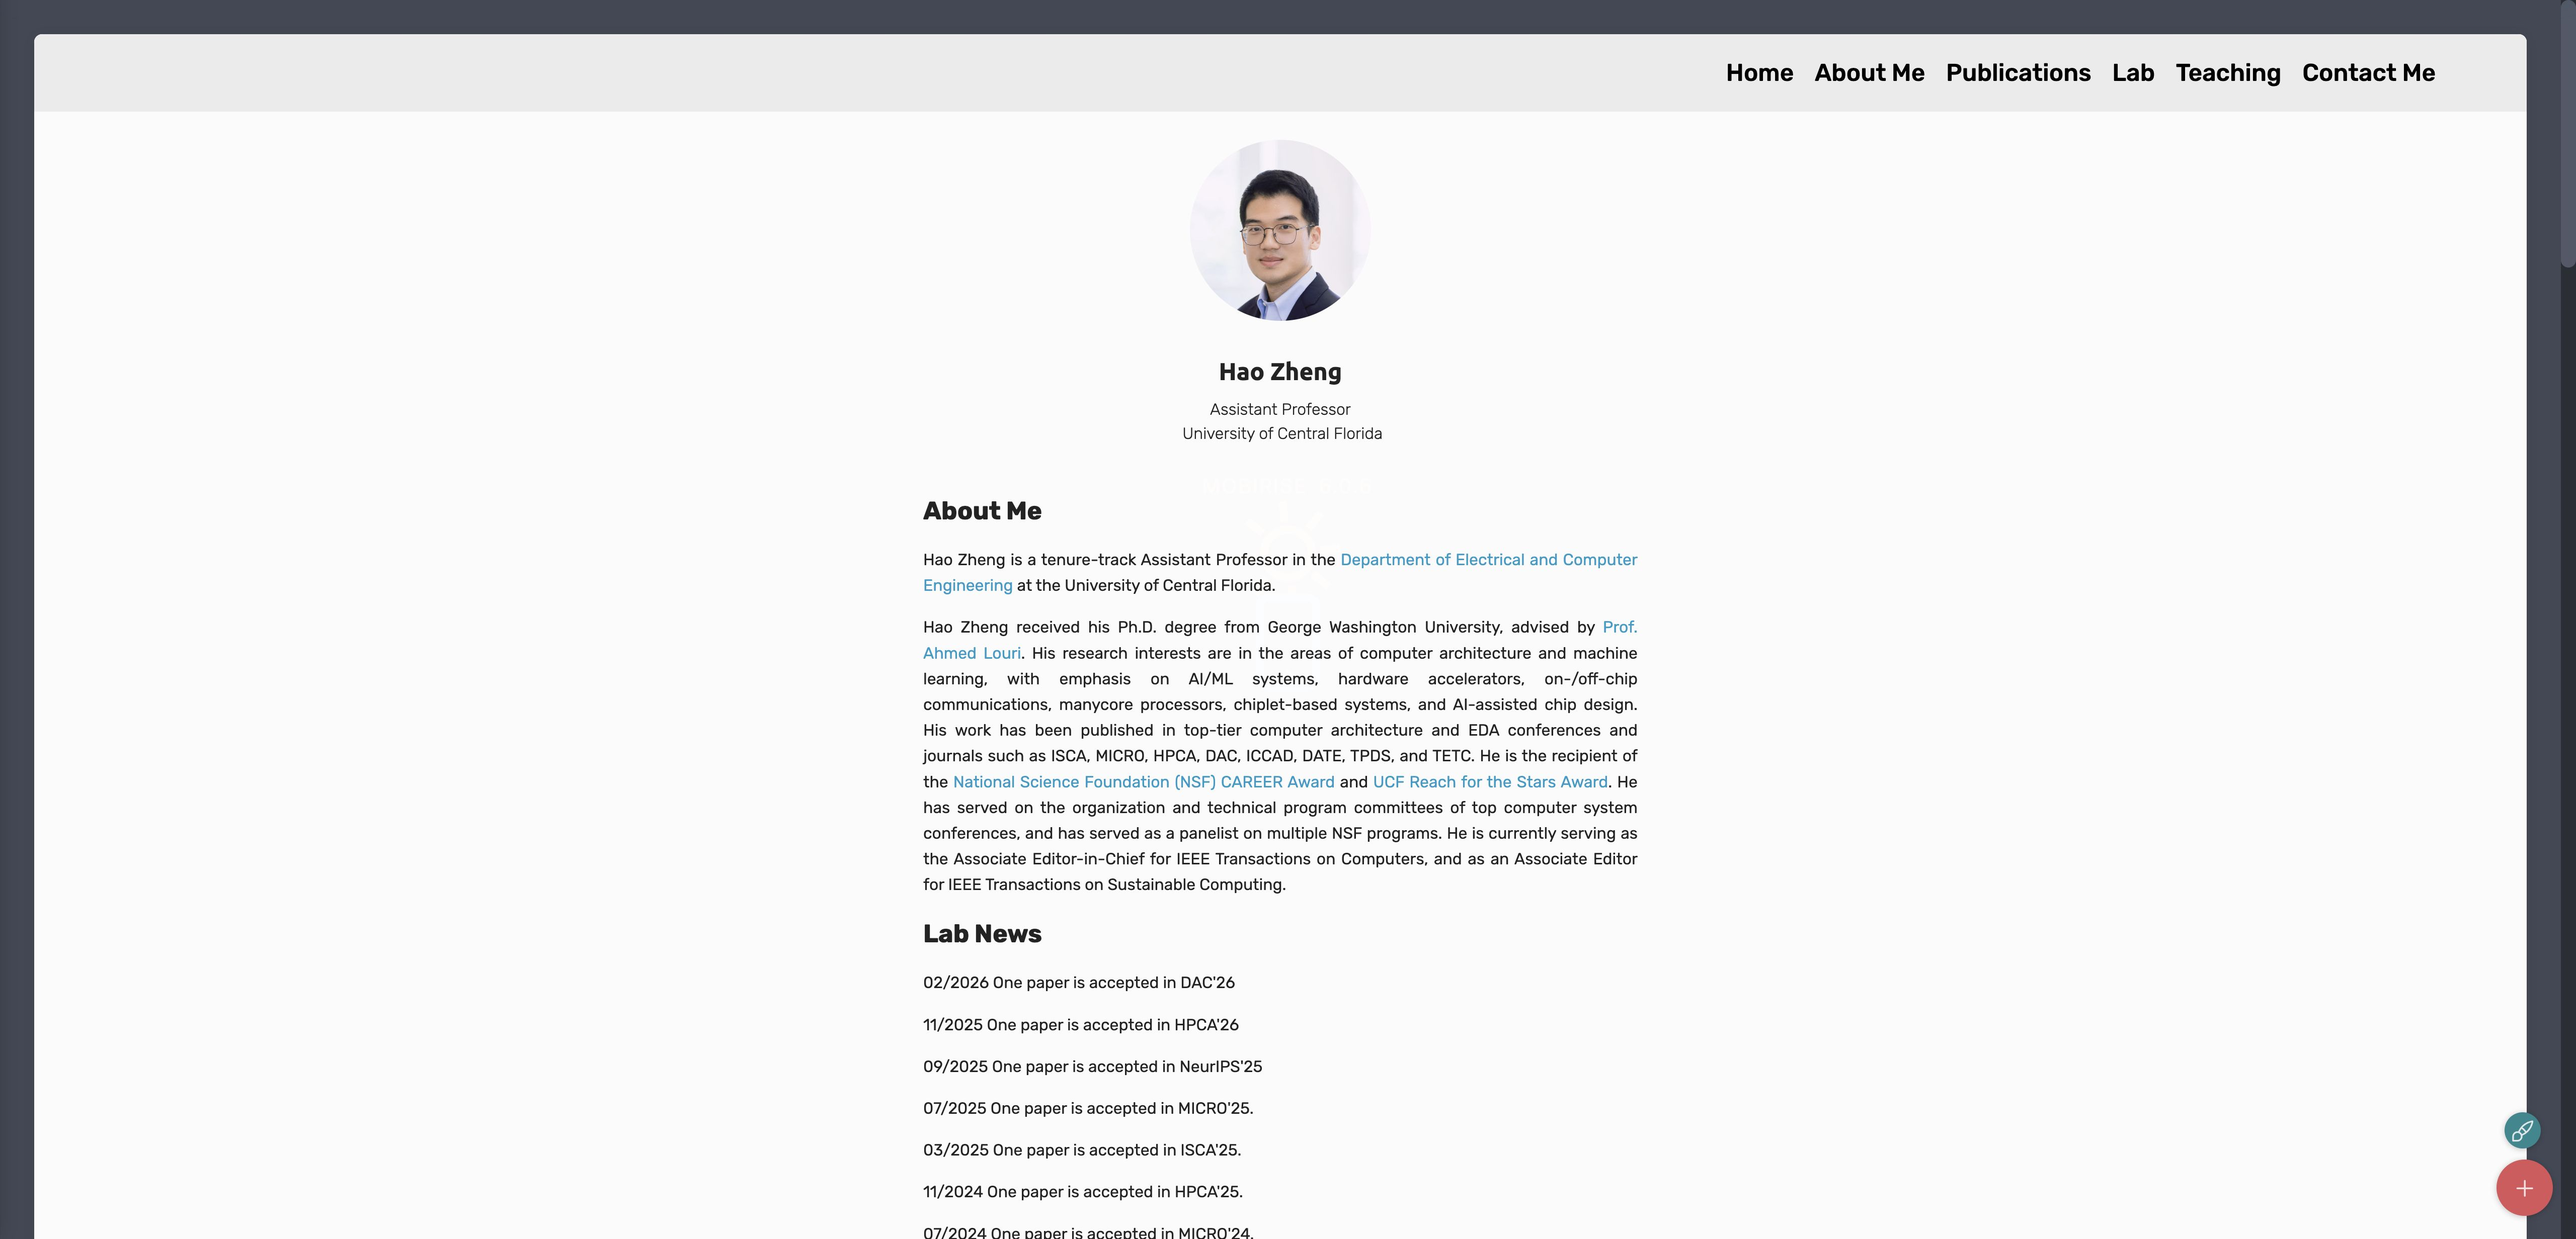
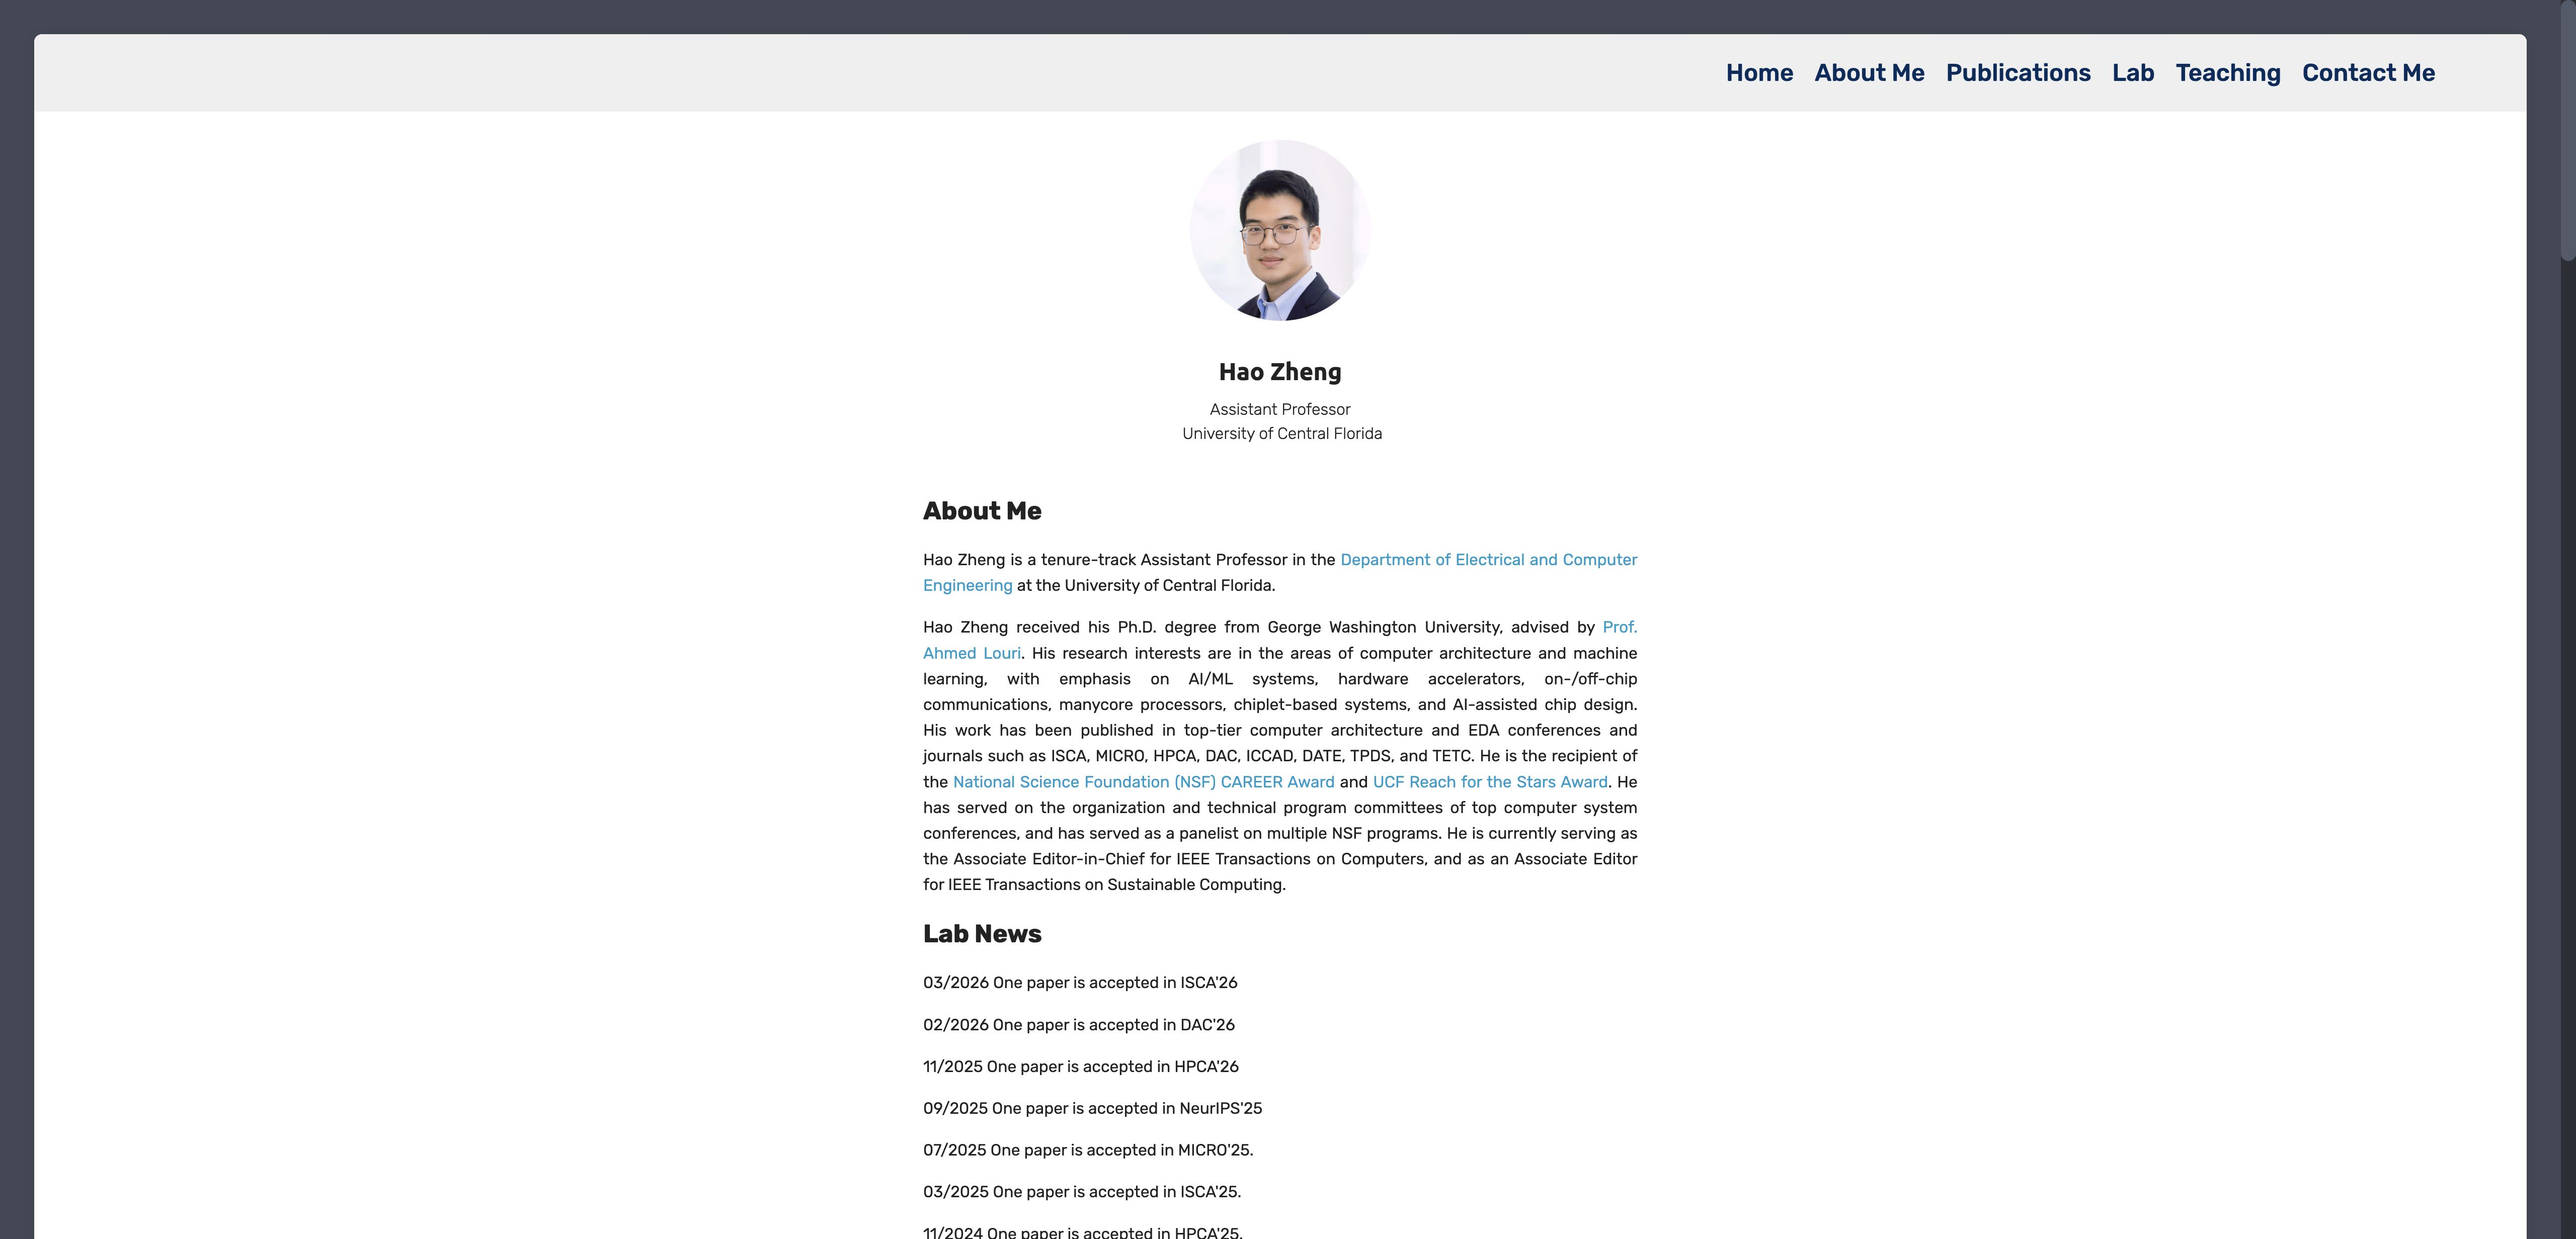
v5.0.8

diff --git a/index.html b/index.html
@@ -22,7 +22,7 @@
   <noscript><link rel="stylesheet" href="https://fonts.googleapis.com/css?family=Ubuntu:300,300i,400,400i,500,500i,700,700i&display=swap"></noscript>
   <link rel="preload" href="https://fonts.googleapis.com/css?family=Rubik:300,400,500,600,700,800,900,300i,400i,500i,600i,700i,800i,900i&display=swap" as="style" onload="this.onload=null;this.rel='stylesheet'">
   <noscript><link rel="stylesheet" href="https://fonts.googleapis.com/css?family=Rubik:300,400,500,600,700,800,900,300i,400i,500i,600i,700i,800i,900i&display=swap"></noscript>
-  <link rel="preload" as="style" href="assets/mobirise/css/mbr-additional.css?v=S5wiF6"><link rel="stylesheet" href="assets/mobirise/css/mbr-additional.css?v=S5wiF6" type="text/css">
+  <link rel="preload" as="style" href="assets/mobirise/css/mbr-additional.css?v=Qo17f2"><link rel="stylesheet" href="assets/mobirise/css/mbr-additional.css?v=Qo17f2" type="text/css">
 
   
   
@@ -124,7 +124,7 @@
 
     <div class="container">
         <div class="media-container-row">
-            <div class="mbr-text col-12 mbr-fonts-style display-7 col-md-8"><p><span style="font-size: 25px;"><strong>About Me</strong></span></p><p>Hao Zheng is a tenure-track Assistant Professor in the <a href="https://www.ece.ucf.edu/">Department of Electrical and Computer Engineering</a> at the University of Central Florida.&nbsp;</p><p><span style="font-size: 1rem;">Hao Zheng received his Ph.D. degree from George Washington University, advised by <a href="https://hpcat.seas.gwu.edu/">Prof. Ahmed Louri</a>. His research interests are in the areas of computer architecture and machine learning, with emphasis on AI/ML systems, hardware accelerators, on-/off-chip communications, manycore processors, chiplet-based systems, and AI-assisted chip design. His work has been published in top-tier computer architecture and EDA conferences and journals such as ISCA, MICRO, HPCA, DAC, ICCAD, DATE, TPDS, and TETC. He is the recipient of the <a href="https://www.nsf.gov/funding/opportunities/career-faculty-early-career-development-program" class="text-primary">National Science Foundation (NSF) CAREER Award</a> and <a href="https://facultyexcellence.ucf.edu/award/reach-for-the-stars-award/" class="text-primary">UCF Reach for the Stars Award</a>. He has served on the organization and technical program committees of top computer system conferences, and has served as a panelist on multiple NSF programs. He is currently serving as the Associate Editor-in-Chief for IEEE Transactions on Computers, and as an Associate Editor for IEEE Transactions on Sustainable Computing.</span></p></div>
+            <div class="mbr-text col-12 mbr-fonts-style display-7 col-md-8"><p><span style="font-size: 25px;"><strong>About Me</strong></span></p><p>Hao Zheng is a tenure-track Assistant Professor in the <a href="https://www.ece.ucf.edu/">Department of Electrical and Computer Engineering</a> at the University of Central Florida.&nbsp;</p><p><span style="font-size: 1rem;">Hao Zheng received his Ph.D. degree from George Washington University, advised by <a href="https://hpcat.seas.gwu.edu/">Prof. Ahmed Louri</a>. His research interests are in the areas of computer architecture and machine learning, with emphasis on AI/ML systems, hardware accelerators, on-/off-chip communications, manycore processors, chiplet-based systems, and AI-assisted chip design. His work has been published in top-tier computer architecture and EDA conferences and journals such as ISCA, MICRO, HPCA, DAC, ICCAD, DATE, TPDS, and TETC. He is the recipient of the <a href="https://www.nsf.gov/funding/opportunities/career-faculty-early-career-development-program" class="text-primary">National Science Foundation (NSF) CAREER Award</a> and <a href="https://facultyexcellence.ucf.edu/award/reach-for-the-stars-award/" class="text-primary">UCF Reach for the Stars Award</a>. He has served on the organization and technical program committees of top computer system conferences, and has served as a panelist on multiple NSF programs. He is currently serving as the Associate Editor-in-Chief for IEEE Transactions on Computers, and as an Associate Editor for IEEE Transactions on Sustainable Computing.</span></p><p><span style="font-size: 1rem;">If you are interested in serving as a reviewer for <a href="https://www.computer.org/csdl/journal/tc" class="text-primary">IEEE TC</a>, please fill out the&nbsp;<a href="https://docs.google.com/forms/d/e/1FAIpQLScnBeBChpP9nZjyztYFd7uBaIh6cIC2cqRQJCVYd0EDCkhCBg/viewform?usp=publish-editor" class="text-primary">form</a>.&nbsp;</span></p></div>
         </div>
     </div>
 </section>
@@ -206,7 +206,7 @@
     <div class="container">
         <div class="row">
             <div class="col-md-6">
-                <div class="google-map"><iframe frameborder="0" style="border:0" src="https://www.google.com/maps/embed/v1/place?key=AIzaSyB7QWkvlxV39ZsyKvhZRjPGVqlJFvxxNkw&amp;q=4328 Scorpius Street, Orlando, Florida, 32816-2362 " allowfullscreen=""></iframe></div>
+                <div class="google-map"><iframe frameborder="0" style="border:0" src="https://www.google.com/maps/embed/v1/place?key=AIzaSyDbnCmnHmtigIYiD8jIfeHQv7gW2ANhHD4&amp;q=4328 Scorpius Street, Orlando, Florida, 32816-2362 " allowfullscreen=""></iframe></div>
             </div>
             <div class="col-md-6">
                 
@@ -222,7 +222,7 @@
                 </div>
                 <div data-form-type="formoid">
                     <!---Formbuilder Form--->
-                    <form action="https://mobirise.eu/" method="POST" class="mbr-form form-with-styler" data-form-title="Mobirise Form"><input type="hidden" name="email" data-form-email="true" value="LfdmrrGPxpftpLFAZlowEOgyk1OVATTggdULunVt/8YQRtJdPUAv/AGRL97kUkvHBpKMr1tnXstU8/fDBiQQ3ORpnUA5+hkga+eAaa1nbDfXddsvC4bTw1IkoemvTOq6.Av61lWOdtoQh7usDqT9oPQRQQTihnPtbq/MguUpmdGzGLya9bLBe494q46Ms6NTabhSnIdkk74WJkCZgG6oU3DYe9GDywsBEhc0CdLZzPJdQL382brWBAesIRVDcjaXf">
+                    <form action="https://mobirise.eu/" method="POST" class="mbr-form form-with-styler" data-form-title="Mobirise Form"><input type="hidden" name="email" data-form-email="true" value="17l/pbykGvgLV/irpVHl3aslSZBqO2F4DM/Laf9SdINWAdYLIQ3sBCblMdLVnroIqonYchSfOwasIzBn7VHfd95TEkZ0X+08Bjg10s6yOEQPpA/VuIJRI2yKQZJ2smZ8.mSL9P7SRzUx93a5gF9XiSms8nFpe9mCM84JCf+LNiEAqN14I6TJoUlGq1N67i/4aSHumGfyJ5ZvbY2tmoe4wtBOML+fp+mhTBxMsjZ3NIDAyh6lfbWsnWQ3ObcaZx/qW">
                         <div class="row">
                             <div hidden="hidden" data-form-alert="" class="alert alert-success col-12">Thanks for filling out the form!</div>
                             <div hidden="hidden" data-form-alert-danger="" class="alert alert-danger col-12">

diff --git a/News.html b/News.html
@@ -22,7 +22,7 @@
   <noscript><link rel="stylesheet" href="https://fonts.googleapis.com/css?family=Ubuntu:300,300i,400,400i,500,500i,700,700i&display=swap"></noscript>
   <link rel="preload" href="https://fonts.googleapis.com/css?family=Rubik:300,400,500,600,700,800,900,300i,400i,500i,600i,700i,800i,900i&display=swap" as="style" onload="this.onload=null;this.rel='stylesheet'">
   <noscript><link rel="stylesheet" href="https://fonts.googleapis.com/css?family=Rubik:300,400,500,600,700,800,900,300i,400i,500i,600i,700i,800i,900i&display=swap"></noscript>
-  <link rel="preload" as="style" href="assets/mobirise/css/mbr-additional.css?v=yOM3Wx"><link rel="stylesheet" href="assets/mobirise/css/mbr-additional.css?v=yOM3Wx" type="text/css">
+  <link rel="preload" as="style" href="assets/mobirise/css/mbr-additional.css?v=4uyUEN"><link rel="stylesheet" href="assets/mobirise/css/mbr-additional.css?v=4uyUEN" type="text/css">
 
   
   

diff --git a/Publications.html b/Publications.html
@@ -22,7 +22,7 @@
   <noscript><link rel="stylesheet" href="https://fonts.googleapis.com/css?family=Ubuntu:300,300i,400,400i,500,500i,700,700i&display=swap"></noscript>
   <link rel="preload" href="https://fonts.googleapis.com/css?family=Rubik:300,400,500,600,700,800,900,300i,400i,500i,600i,700i,800i,900i&display=swap" as="style" onload="this.onload=null;this.rel='stylesheet'">
   <noscript><link rel="stylesheet" href="https://fonts.googleapis.com/css?family=Rubik:300,400,500,600,700,800,900,300i,400i,500i,600i,700i,800i,900i&display=swap"></noscript>
-  <link rel="preload" as="style" href="assets/mobirise/css/mbr-additional.css?v=posM0S"><link rel="stylesheet" href="assets/mobirise/css/mbr-additional.css?v=posM0S" type="text/css">
+  <link rel="preload" as="style" href="assets/mobirise/css/mbr-additional.css?v=M2EUr9"><link rel="stylesheet" href="assets/mobirise/css/mbr-additional.css?v=M2EUr9" type="text/css">
 
   
   

diff --git a/lab.html b/lab.html
@@ -23,7 +23,7 @@
   <noscript><link rel="stylesheet" href="https://fonts.googleapis.com/css?family=Ubuntu:300,300i,400,400i,500,500i,700,700i&display=swap"></noscript>
   <link rel="preload" href="https://fonts.googleapis.com/css?family=Rubik:300,400,500,600,700,800,900,300i,400i,500i,600i,700i,800i,900i&display=swap" as="style" onload="this.onload=null;this.rel='stylesheet'">
   <noscript><link rel="stylesheet" href="https://fonts.googleapis.com/css?family=Rubik:300,400,500,600,700,800,900,300i,400i,500i,600i,700i,800i,900i&display=swap"></noscript>
-  <link rel="preload" as="style" href="assets/mobirise/css/mbr-additional.css?v=Wac2eC"><link rel="stylesheet" href="assets/mobirise/css/mbr-additional.css?v=Wac2eC" type="text/css">
+  <link rel="preload" as="style" href="assets/mobirise/css/mbr-additional.css?v=9RMX2p"><link rel="stylesheet" href="assets/mobirise/css/mbr-additional.css?v=9RMX2p" type="text/css">
 
   
   

diff --git a/personal.html b/personal.html
@@ -23,7 +23,7 @@
   <noscript><link rel="stylesheet" href="https://fonts.googleapis.com/css?family=Ubuntu:300,300i,400,400i,500,500i,700,700i&display=swap"></noscript>
   <link rel="preload" href="https://fonts.googleapis.com/css?family=Rubik:300,400,500,600,700,800,900,300i,400i,500i,600i,700i,800i,900i&display=swap" as="style" onload="this.onload=null;this.rel='stylesheet'">
   <noscript><link rel="stylesheet" href="https://fonts.googleapis.com/css?family=Rubik:300,400,500,600,700,800,900,300i,400i,500i,600i,700i,800i,900i&display=swap"></noscript>
-  <link rel="preload" as="style" href="assets/mobirise/css/mbr-additional.css?v=8MO9Qk"><link rel="stylesheet" href="assets/mobirise/css/mbr-additional.css?v=8MO9Qk" type="text/css">
+  <link rel="preload" as="style" href="assets/mobirise/css/mbr-additional.css?v=BIeQLb"><link rel="stylesheet" href="assets/mobirise/css/mbr-additional.css?v=BIeQLb" type="text/css">
 
   
   

diff --git a/research.html b/research.html
@@ -22,7 +22,7 @@
   <noscript><link rel="stylesheet" href="https://fonts.googleapis.com/css?family=Ubuntu:300,300i,400,400i,500,500i,700,700i&display=swap"></noscript>
   <link rel="preload" href="https://fonts.googleapis.com/css?family=Rubik:300,400,500,600,700,800,900,300i,400i,500i,600i,700i,800i,900i&display=swap" as="style" onload="this.onload=null;this.rel='stylesheet'">
   <noscript><link rel="stylesheet" href="https://fonts.googleapis.com/css?family=Rubik:300,400,500,600,700,800,900,300i,400i,500i,600i,700i,800i,900i&display=swap"></noscript>
-  <link rel="preload" as="style" href="assets/mobirise/css/mbr-additional.css?v=eaOmue"><link rel="stylesheet" href="assets/mobirise/css/mbr-additional.css?v=eaOmue" type="text/css">
+  <link rel="preload" as="style" href="assets/mobirise/css/mbr-additional.css?v=qWYhqE"><link rel="stylesheet" href="assets/mobirise/css/mbr-additional.css?v=qWYhqE" type="text/css">
 
   
   

diff --git a/teaching.html b/teaching.html
@@ -22,7 +22,7 @@
   <noscript><link rel="stylesheet" href="https://fonts.googleapis.com/css?family=Ubuntu:300,300i,400,400i,500,500i,700,700i&display=swap"></noscript>
   <link rel="preload" href="https://fonts.googleapis.com/css?family=Rubik:300,400,500,600,700,800,900,300i,400i,500i,600i,700i,800i,900i&display=swap" as="style" onload="this.onload=null;this.rel='stylesheet'">
   <noscript><link rel="stylesheet" href="https://fonts.googleapis.com/css?family=Rubik:300,400,500,600,700,800,900,300i,400i,500i,600i,700i,800i,900i&display=swap"></noscript>
-  <link rel="preload" as="style" href="assets/mobirise/css/mbr-additional.css?v=MczmSs"><link rel="stylesheet" href="assets/mobirise/css/mbr-additional.css?v=MczmSs" type="text/css">
+  <link rel="preload" as="style" href="assets/mobirise/css/mbr-additional.css?v=mta5My"><link rel="stylesheet" href="assets/mobirise/css/mbr-additional.css?v=mta5My" type="text/css">
 
   
   
